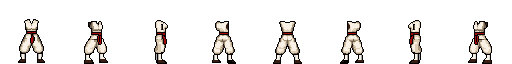
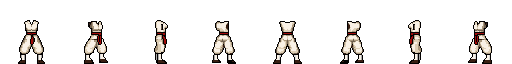
Integrate World Assets modules into Slice 0
- Register the 14 shared-foundation modules and 4 Slice 0 dressing
  modules from /World Assets in docs/js/world/world-modules.js
- tools/sync-runtime-assets.mjs derives every runtime copy from
  /Paperdolls and /World Assets: byte copy, or alpha-snap (alpha >=128
  -> 255, RGB untouched) for near-opaque export artefacts; --check fails
  on stale copies. Re-synced the updated Female Gi.
- Slice 0 places authored modules by measured opaque content against
  player-relative ground lines (stone base 17, eave 93, door 34x67,
  post 111, gate clearance 104, lantern 107 at S=55); no scaffold
  textures remain in Slice 0
- Manifest: package phaser-integrated; modules integrated or
  runtime-candidate with per-asset qaIssues (palette noise on
  stone-cracked and drainage-channel, drainage black band, stains
  silhouette, alpha-snapped exports, wall edge seam); new
  dressingDependencies for doorway, noren, lantern post, crate stack
- validate-world-data enforces registry/manifest agreement, hard alpha,
  a 64-colour palette limit unless recorded as a runtime-candidate
  palette issue, and runtime-copy freshness

Claude-Session: https://claude.ai/code/session_015E3Rd5RxKA1fdL3Qec9Euq

diff --git a/docs/js/world/maps.js b/docs/js/world/maps.js
@@ -101,22 +101,24 @@
         {x:64,y:368,w:192,h:24},
         {x:417,y:376,w:14,h:8},{x:529,y:376,w:14,h:8},
         {x:702,y:236,w:44,h:14},
-        {x:352,y:508,w:16,h:12}
+        {x:354,y:512,w:12,h:8}
       ],
       exits:[{id:'south-lane',x:440,y:522,w:80,h:18,target:'Imperial Docks',arrive:'from-slice0',label:'Return to Imperial Docks'}],
       arrivals:{'from-scale':{x:480,y:500,facing:'N'}},
       npcs:[{id:'courtyard-keeper',name:'Courtyard Keeper',x:600,y:330,look:'keeper',facing:'W',
         lines:['Everything here is loaded as a separate module and sorted by depth each frame. Collision is its own data — the stones do not decide where you can walk.','These textures are procedural scaffolding. Authored source art replaces them file-for-file once it passes review.']}],
       enemies:[],
-      // Authored scaffold dimensions (px) checked against AF_SCALE ratios × measured stature.
-      proportions:{doorOpeningH:68,doorOpeningW:36,plinthH:22,eaveH:106,windowSill:35,windowH:22,windowW:31,postH:128,beamClearance:112,lanternH:112,crateLarge:28},
+      // Measured dimensions (px) of the placed authored modules, checked against AF_SCALE ratios × measured stature.
+      proportions:{doorOpeningH:67,doorOpeningW:34,plinthH:17,eaveH:93,postH:111,beamClearance:104,lanternH:107},
       interactables:[{id:'courtyard-door',name:'Courtyard door',x:480,y:252,lines:['The door is barred from inside. Room interiors and authored cutaways arrive with the Academy interior slice.']}],
       // Layer routing follows production/asset-manifest.json canonical.worldLayerOrder.
       ground:{modules:[['stone-clean',6],['stone-cracked',2],['stone-patched',1]],seed:7},
+      // Ground lines: main building 240 (plinth top 223), left wall 392 (plinth top 375), gate 384,
+      // crates 250, lantern 520. `bottom`/`cx` align each module's opaque content, not its canvas.
       placements:[
         {tex:'stone-timber-transition',x:704,y:300,layer:'ground'},
         {tex:'stone-timber-transition',x:832,y:300,layer:'ground'},
-        {tex:'building-threshold',x:416,y:236,layer:'ground'},
+        {tex:'building-threshold',cx:480,y:231,layer:'ground'},
         ...[0,160,320,480,640,800].map(x=>({tex:'drainage-channel',x,y:440,layer:'ground'})),
         {tex:'cracks',x:120,y:250,layer:'decals'},{tex:'cracks',x:620,y:330,layer:'decals'},{tex:'cracks',x:860,y:396,layer:'decals'},
         {tex:'stains',x:330,y:404,layer:'decals'},{tex:'stains',x:700,y:250,layer:'decals'},{tex:'stains',x:70,y:470,layer:'decals'},
@@ -124,19 +126,19 @@
         {tex:'drainage-grate',x:176,y:448,layer:'architecture-dressing',sortY:-1},
         {tex:'drainage-grate',x:496,y:448,layer:'architecture-dressing',sortY:-1},
         {tex:'drainage-grate',x:816,y:448,layer:'architecture-dressing',sortY:-1},
-        {tex:'timber-plaster-wall',x:288,y:58,layer:'architecture',sortY:240},
-        {tex:'timber-plaster-wall',x:480,y:58,layer:'architecture',sortY:240},
-        {tex:'doorway',x:458,y:146,layer:'architecture-dressing',sortY:240.05},
-        {tex:'aged-stone-foundation',x:288,y:176,layer:'architecture',sortY:240.1},
-        {tex:'aged-stone-foundation',x:480,y:176,layer:'architecture',sortY:240.1},
-        {tex:'noren',x:448,y:146,layer:'architecture-dressing',sortY:240.2},
-        {tex:'timber-plaster-wall',x:64,y:210,layer:'architecture',sortY:392,occluder:true},
-        {tex:'aged-stone-foundation',x:64,y:328,layer:'architecture',sortY:392.1,occluder:true},
-        {tex:'timber-post',x:400,y:256,layer:'architecture',sortY:384,occluder:true},
-        {tex:'timber-post',x:512,y:256,layer:'architecture',sortY:384,occluder:true},
-        {tex:'horizontal-beam',x:416,y:240,layer:'architecture',sortY:384.1,occluder:true},
-        {tex:'crate-stack',x:700,y:196,layer:'props-back',sortY:250},
-        {tex:'lantern-post',x:344,y:408,layer:'props-front-occluders',sortY:520,occluder:true}
+        {tex:'timber-plaster-wall',x:288,bottom:223,layer:'architecture',sortY:240},
+        {tex:'timber-plaster-wall',x:480,bottom:223,layer:'architecture',sortY:240},
+        {tex:'doorway',cx:480,bottom:223,layer:'architecture-dressing',sortY:240.05},
+        {tex:'aged-stone-foundation',x:288,bottom:240,layer:'architecture',sortY:240.1},
+        {tex:'aged-stone-foundation',x:480,bottom:240,layer:'architecture',sortY:240.1},
+        {tex:'noren',cx:480,bottom:178,layer:'architecture-dressing',sortY:240.2},
+        {tex:'timber-plaster-wall',x:64,bottom:375,layer:'architecture',sortY:392,occluder:true},
+        {tex:'aged-stone-foundation',x:64,bottom:392,layer:'architecture',sortY:392.1,occluder:true},
+        {tex:'timber-post',cx:424,bottom:384,layer:'architecture',sortY:384,occluder:true},
+        {tex:'timber-post',cx:536,bottom:384,layer:'architecture',sortY:384,occluder:true},
+        {tex:'horizontal-beam',x:416,bottom:280,layer:'architecture',sortY:384.1,occluder:true},
+        {tex:'crate-stack',cx:724,bottom:250,layer:'props-back',sortY:250},
+        {tex:'lantern-post',cx:360,bottom:520,layer:'props-front-occluders',sortY:520,occluder:true}
       ],
       shadows:[
         {x:288,y:240,w:384,h:8,a:.28},{x:64,y:392,w:192,h:7,a:.28},
@@ -167,10 +169,9 @@
     }
   };
 
-  // Authored shared-foundation runtime PNGs, keyed by manifest dependency id, e.g.
-  // 'stone-clean': 'assets/world/shared-foundation/stone-clean.png'. Listed modules replace
-  // the procedural scaffold texture of the same id; unlisted ids fall back to scaffold.
-  const authoredModules = {};
+  // Authored world modules (world/world-modules.js), keyed by module id → runtime path under /docs.
+  // Listed modules replace the procedural scaffold texture of the same id; unlisted ids use scaffold.
+  const authoredModules = Object.fromEntries(Object.entries(window.AF_WORLD_MODULES || {}).map(([id, m]) => [id, m.path]));
 
   window.AF_WORLD = {MAPS, LOOKS, authoredModules};
 })();

diff --git a/docs/js/game.js b/docs/js/game.js
@@ -425,8 +425,10 @@
     $('hotbar').innerHTML=state.hotbar.slice(0,6).map((n,i)=>{const a=abilityByName(n)||BASIC_JAB;const st=runtimeCost(a,'stam',state),ch=runtimeCost(a,'chakra',state);return `<div class="slot ${left>0?'cooling':''}"><kbd>${i+1}</kbd><b>${safeText(n)}</b><small>${a.slots||1}S${st?` · STA ${st}`:''}${ch?` · CHK ${ch}`:''}</small></div>`;}).join('');
     const traps=Object.entries(state.trapStock).filter(([,q])=>q>0);
     $('trap-hud').innerHTML=traps.length?`TRAP <b>${safeText(state.armedTrap||traps[0][0])}</b> ×${state.trapStock[state.armedTrap||traps[0][0]]||0} · Q cycle · F set`:'';
+    const auth=worldScene?.authoredIds?.size||0, scaf=worldScene?.scaffoldCount||0;
     const art=map?.artState==='scaffold'
-      ? `Separate Phaser world modules · ${worldScene?.authoredCount?`${worldScene.authoredCount} authored + `:''}procedural scaffold textures · not production art`
+      ? (auth&&!scaf?`Separate Phaser world modules · ${auth} authored runtime candidates · unreviewed, not production-approved`
+        :`Separate Phaser world modules · ${auth?`${auth} authored + `:''}procedural scaffold textures · not production art`)
       : 'Legacy baked district backdrop · temporary development scaffold · not production art';
     const who='Player: approved 512×64 paper-doll layers';
     $('art-state').textContent=`${art} · ${who}${worldScene?.stature?` · S=${worldScene.stature}px`:''}`;
@@ -496,8 +498,19 @@
       this.mapObjects=[];this.enemies=[];this.npcs=[];this.interactables=[];this.guideMeasures=[];this.colliders=[];this.occluders=[];this.traps=[];this.projectiles=[];this.pending=[];this.layerIndex={};this.selected=null;this.player=null;this.dash=null;this.motes=null;
     }
 
+    /* Opaque bounds of a whole texture (cached per key). */
+    contentBounds(key){
+      this.boundsCache ||= {};
+      if(this.boundsCache[key]) return this.boundsCache[key];
+      const src=this.textures.get(key).getSourceImage(), c=document.createElement('canvas'); c.width=src.width; c.height=src.height;
+      const g=c.getContext('2d',{willReadFrequently:true}); g.drawImage(src,0,0);
+      const d=g.getImageData(0,0,c.width,c.height).data; let minX=c.width,minY=c.height,maxX=-1,maxY=-1;
+      for(let y=0;y<c.height;y++) for(let x=0;x<c.width;x++) if(d[(y*c.width+x)*4+3]){ if(x<minX)minX=x; if(x>maxX)maxX=x; if(y<minY)minY=y; if(y>maxY)maxY=y; }
+      return this.boundsCache[key]=maxX<0?{minX:0,minY:0,maxX:c.width-1,maxY:c.height-1}:{minX,minY,maxX,maxY};
+    }
     moduleTexture(id){
-      if(this.textures.exists(`mod-${id}`)){ this.authoredCount++; return `mod-${id}`; }
+      if(this.textures.exists(`mod-${id}`)){ this.authoredCount++; (this.authoredIds ||= new Set()).add(id); return `mod-${id}`; }
+      this.scaffoldCount=(this.scaffoldCount||0)+1;
       const key=`scaf-${id}`;
       if(!this.textures.exists(key)) this.textures.addCanvas(key, window.AF_SCAFFOLD.build(id));
       return key;
@@ -505,7 +518,7 @@
 
     buildMap(name, arrival){
       const map=MAPS[name]||MAPS['Imperial Docks'];
-      this.clearWorld(); this.authoredCount=0;
+      this.clearWorld(); this.authoredCount=0; this.scaffoldCount=0; this.authoredIds=new Set(); this.placed=[];
       state.map=MAPS[name]?name:'Imperial Docks';
       if(arrival){ state.x=arrival.x; state.y=arrival.y; if(arrival.facing) state.facing=arrival.facing; }
       this.map=map;
@@ -577,13 +590,19 @@
       const r=this.buildGround(map);
       let overlay=0;
       for(const p of map.placements){
-        const img=this.add.image(p.x,p.y,this.moduleTexture(p.tex)).setOrigin(0);
+        const key=this.moduleTexture(p.tex), img=this.add.image(p.x,p.y,key).setOrigin(0);
+        // Authored modules are placed by their opaque content, not their canvas corner:
+        // `bottom` puts the lowest opaque row on that world line; `cx` centres the content horizontally.
+        const cb=this.contentBounds(key);
+        if(p.cx!=null) img.x=Math.round(p.cx-(cb.minX+cb.maxX+1)/2);
+        if(p.bottom!=null) img.y=p.bottom-(cb.maxY+1);
         if(p.layer==='ground') img.setDepth(DEPTH.ground+10+(overlay++)*0.001);
         else if(p.layer==='decals') img.setDepth(DEPTH.decals);
         else if(p.sortY===-1) img.setDepth(DEPTH.dressingFlat);
         else img.setDepth(p.sortY);
         this.track(img,p.layer);
-        if(p.occluder) this.occluders.push({img,sortY:p.sortY,x:p.x,y:p.y,w:img.width,h:img.height,alpha:1});
+        if(p.occluder) this.occluders.push({img,sortY:p.sortY,x:img.x+cb.minX,y:img.y+cb.minY,w:cb.maxX-cb.minX+1,h:cb.maxY-cb.minY+1,alpha:1});
+        this.placed.push({tex:p.tex,key,x:img.x,y:img.y,bounds:{x:img.x+cb.minX,y:img.y+cb.minY,w:cb.maxX-cb.minX+1,h:cb.maxY-cb.minY+1}});
       }
       const sh=this.add.graphics().setDepth(DEPTH.shadow);
       for(const s of map.shadows||[]){ sh.fillStyle(0x0d0c0b,s.a); sh.fillRect(s.x,s.y,s.w,s.h); sh.fillStyle(0x0d0c0b,s.a*.5); sh.fillRect(s.x+2,s.y+s.h,s.w-4,2); }

diff --git a/docs/js/world/world-modules.js b/docs/js/world/world-modules.js
@@ -1,0 +1,34 @@
+/* Astro Fighters — authored world module registry.
+   Source authority: the committed /World Assets folder. Runtime copies live under docs/assets/world/.
+   derivation 'copy'       — runtime file is byte-identical to the source.
+   derivation 'alpha-snap' — source was exported with near-opaque alpha (248–254); the runtime copy
+                              snaps alpha ≥128 → 255 and <128 → 0 with RGB untouched
+                              (tools/sync-runtime-assets.mjs). Fix at source to return to 'copy'.
+   Any id listed here replaces the procedural scaffold texture of the same id in Phaser.
+   QA state lives in production/asset-manifest.json; being listed here is not approval. */
+(() => {
+  'use strict';
+  const W = 'World Assets/Exterior/';
+  const sf = (id, src, derivation = 'copy') => [id, {path: `assets/world/shared-foundation/${id}.png`, source: W + src, derivation}];
+  const dr = (id, src, derivation = 'copy') => [id, {path: `assets/world/slice0-dressing/${id}.png`, source: W + src, derivation}];
+  window.AF_WORLD_MODULES = Object.fromEntries([
+    sf('stone-clean', 'Ground/Stone Floor/stone-clean/Stone Floor.png'),
+    sf('stone-cracked', 'Ground/Stone Floor/stone-cracked/stone-cracked.png'),
+    sf('stone-patched', 'Ground/Stone Floor/stone-patched/Stone Patched.png'),
+    sf('stone-timber-transition', 'Ground/Stone Floor/stone-timber-transition/Stone-timber-transition.png'),
+    sf('building-threshold', 'Ground/Door threshold/Door Threshorld .png'),
+    sf('drainage-channel', 'Ground/Drainage/drainage-channel-east-west/drainage-channel-east-west.png'),
+    sf('drainage-grate', 'Decals/drainage-grate/drainage-grate.png'),
+    sf('cracks', 'Decals/cracks/cracks.png'),
+    sf('stains', 'Decals/stains/stains.png'),
+    sf('cart-wear', 'Decals/cart-wear/cart-wear.png'),
+    sf('timber-post', 'architecture/timber-post/timber-post.png'),
+    sf('horizontal-beam', 'architecture/horizontal-beam/horizontal-beam.png'),
+    sf('timber-plaster-wall', 'architecture/timber-plaster-wall/timber-plaster-wall.png', 'alpha-snap'),
+    sf('aged-stone-foundation', 'architecture/aged-stone-foundation/aged-stone-foundation.png'),
+    dr('doorway', 'architecture/doorway/Doorway.png'),
+    dr('noren', 'architecture/noren/noren.png', 'alpha-snap'),
+    dr('lantern-post', 'architecture/lantern-post/lantern-post.png', 'alpha-snap'),
+    dr('crate-stack', 'architecture/crate-stack/crate-stack.png', 'alpha-snap')
+  ]);
+})();

diff --git a/docs/index.html b/docs/index.html
@@ -139,6 +139,7 @@
   <script src="js/world/scaffold-textures.js"></script>
   <script src="js/world/scale-guide.js"></script>
   <script src="js/world/characters.js"></script>
+  <script src="js/world/world-modules.js"></script>
   <script src="js/world/maps.js"></script>
   <script src="js/game.js"></script>
   <script src="js/creator-ui.js"></script>

diff --git a/README.md b/README.md
@@ -202,11 +202,12 @@ Runtime layout:
 - `docs/js/world/maps.js` — authored world data: pixel-space collision, exits, NPCs, enemies, Slice 0 layer placements
 - `docs/js/world/scaffold-textures.js` — procedural stand-ins for the shared-foundation modules at manifest runtime sizes
 - `docs/js/world/scale-guide.js` — player-scale contract mirror and player-relative proportion ratios
+- `docs/js/world/world-modules.js` — registry of authored `/World Assets` modules (Slice 0) and how each runtime copy is derived
 - `docs/js/world/characters.js` — registry of the approved `/Paperdolls` layers (512×64, eight 64×64 frames) copied byte-identically to `docs/assets/characters/`
 - `docs/js/creator-ui.js`, `docs/js/astro-natal.js`, `docs/js/data/canonical-roster.js` — creator UI, natal engine, canonical ability data
 - `docs/vendor/phaser-4.2.1.min.js`, `docs/css/game.css`, `docs/assets/runtime/` — engine, styles, runtime images
 
-Local play must be served over HTTP (WebGL refuses `file://` textures), e.g. `npx http-server docs`. `node tools/build-standalone.mjs` generates a single-file offline build in `dist/`. `node tools/smoke-playtest.mjs [--shots <dir>]` runs the self-tests and a real-input check in headless Chromium and can capture Phaser-canvas screenshots. `node tools/validate-world-data.mjs` checks the player-scale contract, character registries, and map integrity; `node tools/validate-source-png.mjs sheet|overlay|inspection` checks 512×64 sheets, registered overlays, and 5120×640 inspection derivatives.
+Local play must be served over HTTP (WebGL refuses `file://` textures), e.g. `npx http-server docs`. `node tools/build-standalone.mjs` generates a single-file offline build in `dist/`. `node tools/smoke-playtest.mjs [--shots <dir>]` runs the self-tests and a real-input check in headless Chromium and can capture Phaser-canvas screenshots. `node tools/sync-runtime-assets.mjs` derives every runtime copy from `/Paperdolls` and `/World Assets` (`--check` fails on stale copies). `node tools/validate-world-data.mjs` checks the player-scale contract, character registries, and map integrity; `node tools/validate-source-png.mjs sheet|overlay|inspection` checks 512×64 sheets, registered overlays, and 5120×640 inspection derivatives.
 
 The four legacy districts (Docks, Civic, Academy, Fringe) still render baked district backdrops. They are temporary non-reviewable development backdrops with authored collision laid over them, not production world assets.
 

diff --git a/DEVELOPMENT_STATUS.md b/DEVELOPMENT_STATUS.md
@@ -57,6 +57,21 @@ Contracts reconciled on 2026-09-28: `production/asset-manifest.json` (schema v3,
 
 Open gaps: no female armor layers (armor is male-only for now); no idle/walk/ready animation sheets (one frame per direction, held while moving).
 
+## Slice 0 world modules (2026-09-29)
+
+`/World Assets` supplies all 14 shared-foundation modules plus the four Slice 0 dressing modules (doorway, noren, lantern post, crate stack). They are registered in `docs/js/world/world-modules.js`, derived by `tools/sync-runtime-assets.mjs`, and placed in Slice 0 by their measured opaque content against the player-relative ground lines. Slice 0 no longer uses any scaffold texture. State is **Phaser-integrated runtime candidates, unreviewed** — not production-approved.
+
+Open QA issues (per-asset detail in `production/asset-manifest.json` → `qaIssues`):
+
+- `stone-cracked` (12,431 colours) and `drainage-channel` (4,159 colours) carry per-pixel noise instead of a cleaned palette; kept at `runtime-candidate`;
+- `drainage-channel` rows 0–3 are a solid black band that draws a hard line across the courtyard;
+- `stains` reads as a solid dark oval rather than irregular soot wear;
+- `timber-plaster-wall`, `noren`, `lantern-post`, `crate-stack` were exported with near-opaque alpha (248–254); runtime copies are alpha-snapped;
+- `timber-plaster-wall` has transparent edge columns (2 px seam when tiled) and plaster ending at row 147;
+- no contact-shadow or walk-animation character sheets yet (integration gate: animation responds to movement).
+
+Measured Slice 0 proportions at S=55px: door opening 34×67 (0.62×S / 1.22×S), stone base 17 (0.31×S), eave underside 93 (1.69×S), post 111 (2.02×S), gate clearance 104 (1.89×S), lantern 107 (1.95×S).
+
 ## Immediate technical gate
 
 Runtime state (2026-09-28):

diff --git a/AGENTS.md b/AGENTS.md
@@ -253,6 +253,8 @@ Do not create permanent versioned status files or duplicate completion checklist
 
 `production/SLICE_0_SOURCE_ART_BRIEF.md` is a temporary active execution brief. Retire it after Slice 0 is locked and the next package becomes authoritative.
 
+Authored world modules come from the committed `/World Assets` folder, are registered in `docs/js/world/world-modules.js`, and are derived into `docs/assets/world/` only by `node tools/sync-runtime-assets.mjs` (byte copy, or alpha-snap for near-opaque export artefacts, recorded as a QA issue). Never hand-edit runtime copies; fix the source and re-sync.
+
 The current `docs/index.html` runtime and its legacy baked district backdrops may contain prototype debt. Their existence does not make their architecture canonical. Slice 0 scaffold textures (`docs/js/world/scaffold-textures.js`) are engine scaffolding only and must never be marked source-approved, runtime-candidate, integrated, or approved.
 
 ---

diff --git a/PHASER_WORLD_REFACTOR_V0.md b/PHASER_WORLD_REFACTOR_V0.md
@@ -214,7 +214,7 @@ The Phaser world refactor is sufficiently proven for continued city production w
 
 - [x] the visible debug grid is absent from normal gameplay;
 - [x] exploration movement is continuous real-time rather than tile-step cadence;
-- [x] Slice 0 loads multiple separate environment textures rather than one baked background; *(procedural scaffold textures until authored modules are approved)*
+- [x] Slice 0 loads multiple separate environment textures rather than one baked background; *(authored `/World Assets` runtime candidates since 2026-09-29; unreviewed)*
 - [x] collision exists separately from artwork;
 - [x] one foreground/architectural occlusion case works live;
 - [x] the paper-doll player remains eight-directional;
